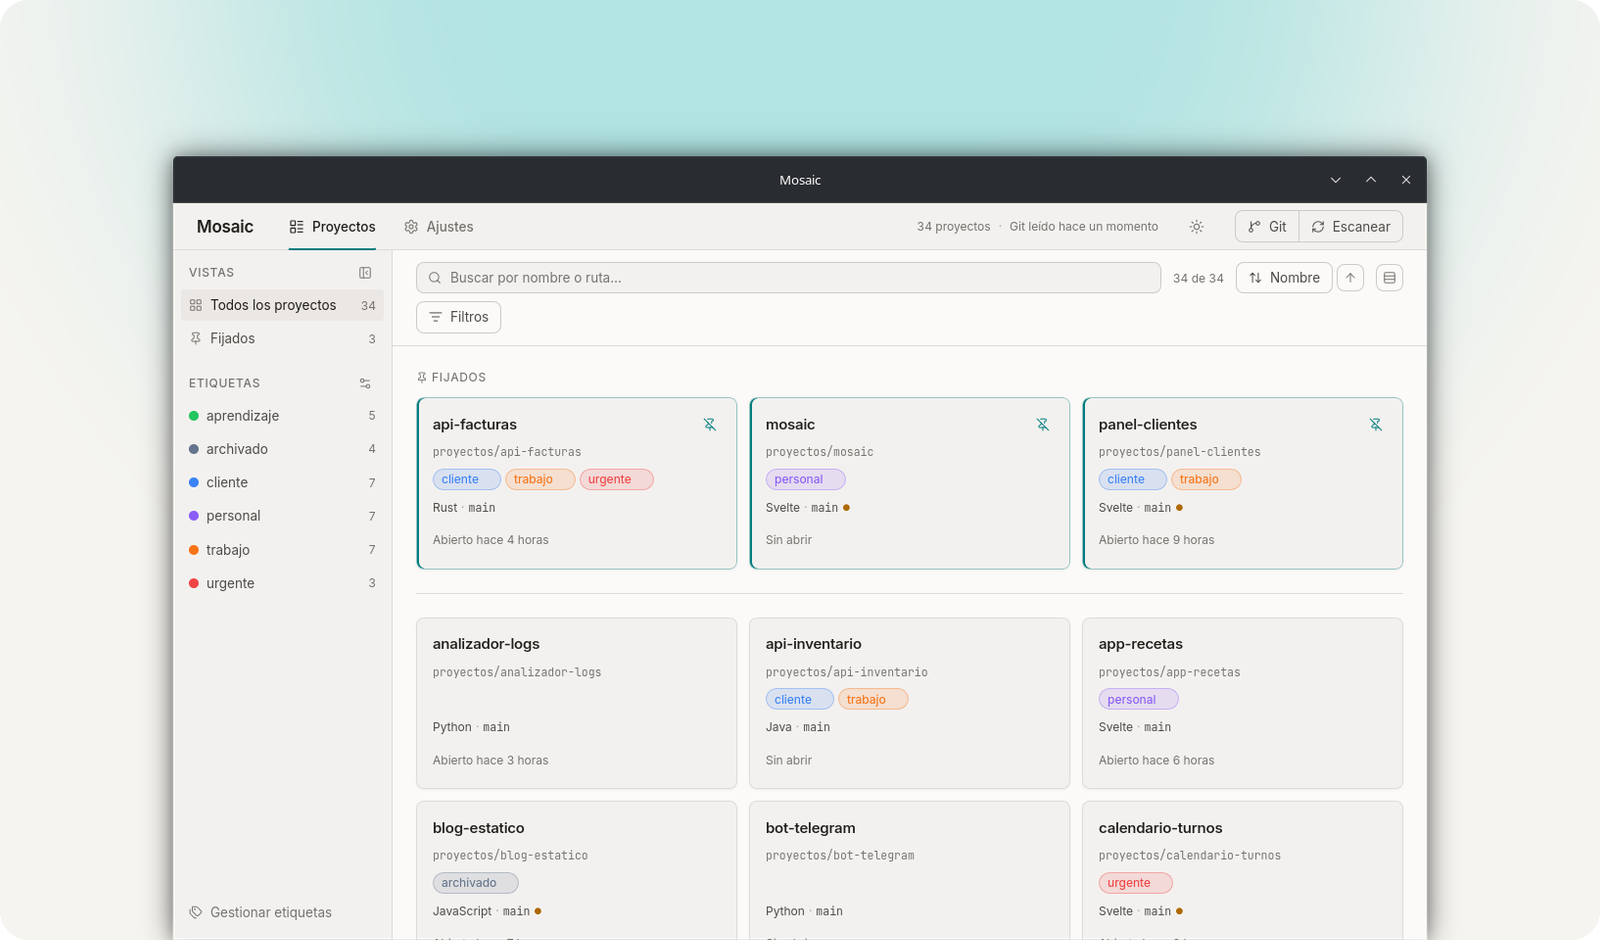
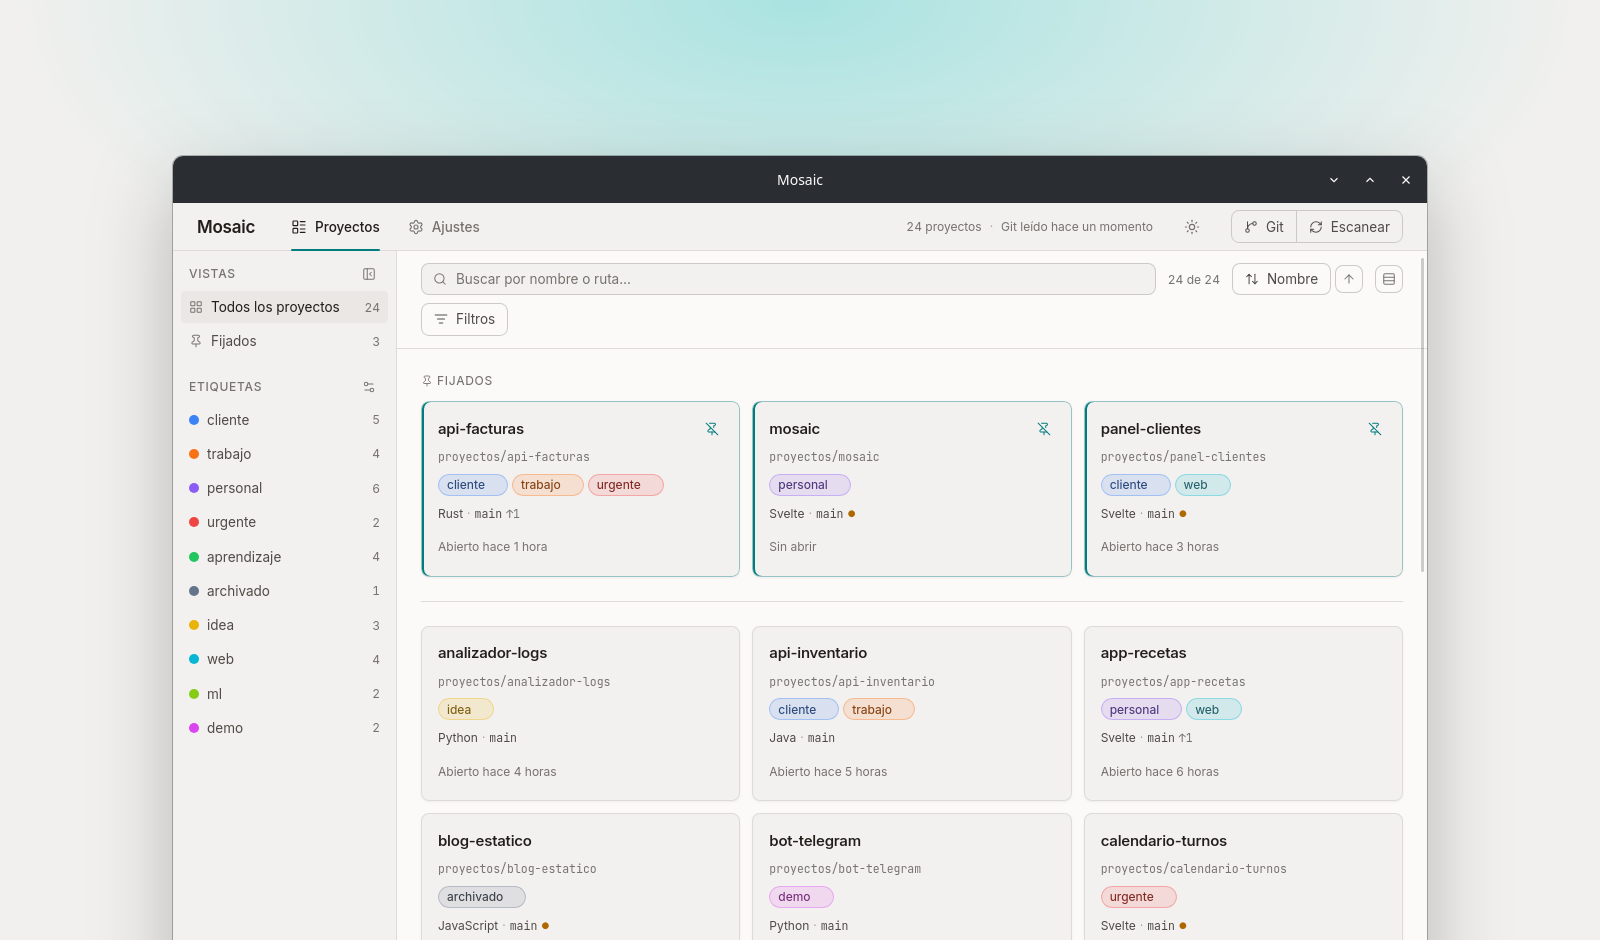
docs: README con la Fase 6, portadas nuevas y capturas de la paleta, la copia y el modo compacto

diff --git a/README.md b/README.md
@@ -104,12 +104,28 @@ no recuerdas, y para abrir la que buscas toca `cd`, `ls` y adivinar.
     </td>
   </tr>
   <tr>
+    <td valign="top">
+      <h3>⌨ Todo con el teclado</h3>
+      <kbd>Ctrl</kbd>+<kbd>K</kbd> abre una paleta para saltar a cualquier proyecto o acción. <kbd>Ctrl</kbd>+<kbd>R</kbd> relee Git y <kbd>?</kbd> enseña el resto.
+    </td>
+    <td valign="top">
+      <h3>🧱 Cómodo o compacto</h3>
+      En compacto cada tarjeta se queda en lo esencial y caben más del doble en pantalla.
+    </td>
+    <td valign="top">
+      <h3>💾 Copia de seguridad</h3>
+      Exporta tus ajustes, etiquetas y notas a un fichero. Importar te enseña antes qué cambia y nunca borra nada.
+    </td>
+  </tr>
+  <tr>
     <td colspan="3" valign="top">
       <h3>📂 Y una ficha por proyecto</h3>
       Pulsa el nombre de una tarjeta y ves su README, sus ramas, sus últimos commits y tus notas, que se guardan solas mientras escribes. Escape te devuelve al tablero.
     </td>
   </tr>
 </table>
+
+<sub>Los atajos, la copia de seguridad, los ajustes de escaneo y el nuevo modo compacto llegan en la próxima versión; la 0.1.0 trae todo lo demás.</sub>
 
 ## 📸 Capturas
 
@@ -132,6 +148,28 @@ no recuerdas, y para abrir la que buscas toca `cd`, `ls` y adivinar.
     </td>
   </tr>
 </table>
+
+<br>
+
+<table>
+  <tr>
+    <td width="45%" align="center">
+      <img src="docs/img/paleta.png" alt="La paleta de comandos abierta con Ctrl+K: las acciones con sus atajos y debajo los proyectos abiertos hace poco">
+      <br><sub><b>La paleta</b>: acciones y proyectos a un <kbd>Ctrl</kbd>+<kbd>K</kbd>.</sub>
+    </td>
+    <td width="55%" align="center">
+      <img src="docs/img/copia.png" alt="La sección Copia de seguridad de Ajustes con el resumen de una importación: lo que se añade, las notas que se conservan y las rutas que no existen en este equipo">
+      <br><sub><b>Importar una copia</b>: primero el resumen, luego tú decides.</sub>
+    </td>
+  </tr>
+</table>
+
+<br>
+
+<p align="center">
+  <img src="docs/img/compacto.png" alt="El tablero en modo compacto y tema claro: cuatro columnas de tarjetas con nombre, etiquetas, lenguaje y rama">
+  <br><sub><b>Modo compacto</b>: cuatro columnas y más del doble de proyectos a la vista.</sub>
+</p>
 
 <br>
 

diff --git a/README.en.md b/README.en.md
@@ -107,12 +107,28 @@ forgotten about, and opening the one you want means `cd`, `ls` and guessing.
     </td>
   </tr>
   <tr>
+    <td valign="top">
+      <h3>⌨ Keyboard first</h3>
+      <kbd>Ctrl</kbd>+<kbd>K</kbd> opens a palette to jump to any project or action. <kbd>Ctrl</kbd>+<kbd>R</kbd> re-reads Git and <kbd>?</kbd> shows the rest.
+    </td>
+    <td valign="top">
+      <h3>🧱 Comfortable or compact</h3>
+      In compact mode each card keeps only the essentials and more than twice as many fit on screen.
+    </td>
+    <td valign="top">
+      <h3>💾 Backup</h3>
+      Export your settings, tags and notes to a file. Importing shows you what will change first and never deletes anything.
+    </td>
+  </tr>
+  <tr>
     <td colspan="3" valign="top">
       <h3>📂 And a page for each project</h3>
       Click a card's name to see its README, branches, latest commits and your notes, which save themselves as you type. Escape takes you back to the board.
     </td>
   </tr>
 </table>
+
+<sub>Shortcuts, backup, the scan settings and the new compact mode arrive in the next release; 0.1.0 has everything else.</sub>
 
 ## 📸 Screenshots
 
@@ -135,6 +151,28 @@ forgotten about, and opening the one you want means `cd`, `ls` and guessing.
     </td>
   </tr>
 </table>
+
+<br>
+
+<table>
+  <tr>
+    <td width="45%" align="center">
+      <img src="docs/img/paleta.png" alt="The command palette opened with Ctrl+K: actions with their shortcuts and, below, recently opened projects">
+      <br><sub><b>The palette</b>: actions and projects one <kbd>Ctrl</kbd>+<kbd>K</kbd> away.</sub>
+    </td>
+    <td width="55%" align="center">
+      <img src="docs/img/copia.png" alt="The Backup section in Settings with an import summary: what gets added, which notes are kept and which folders don't exist on this computer">
+      <br><sub><b>Importing a backup</b>: the summary first, then you decide.</sub>
+    </td>
+  </tr>
+</table>
+
+<br>
+
+<p align="center">
+  <img src="docs/img/compacto.png" alt="The board in compact mode and light theme: four columns of cards with name, tags, language and branch">
+  <br><sub><b>Compact mode</b>: four columns and more than twice the projects in view.</sub>
+</p>
 
 <br>
 
